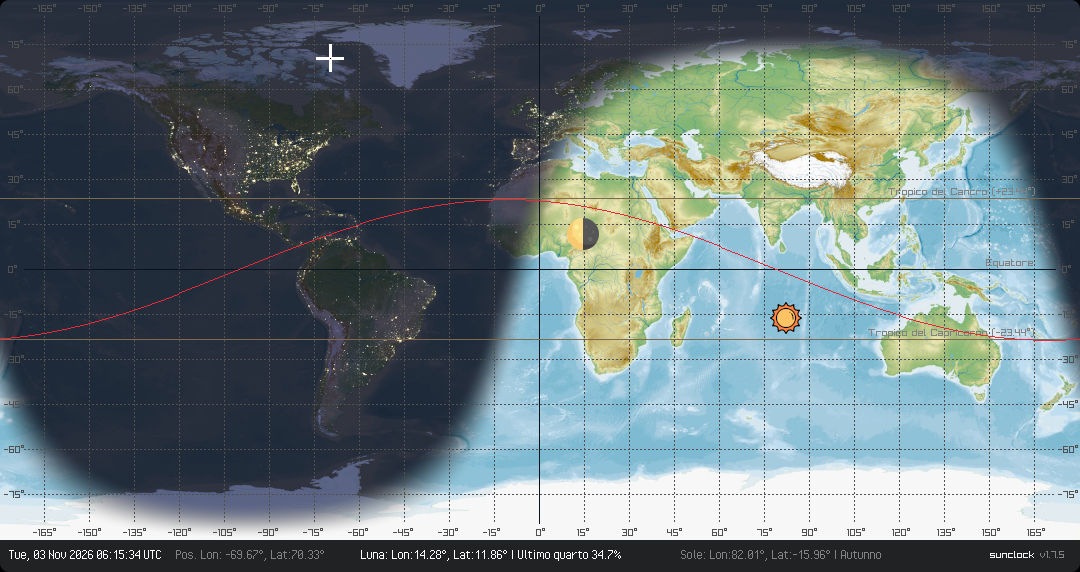
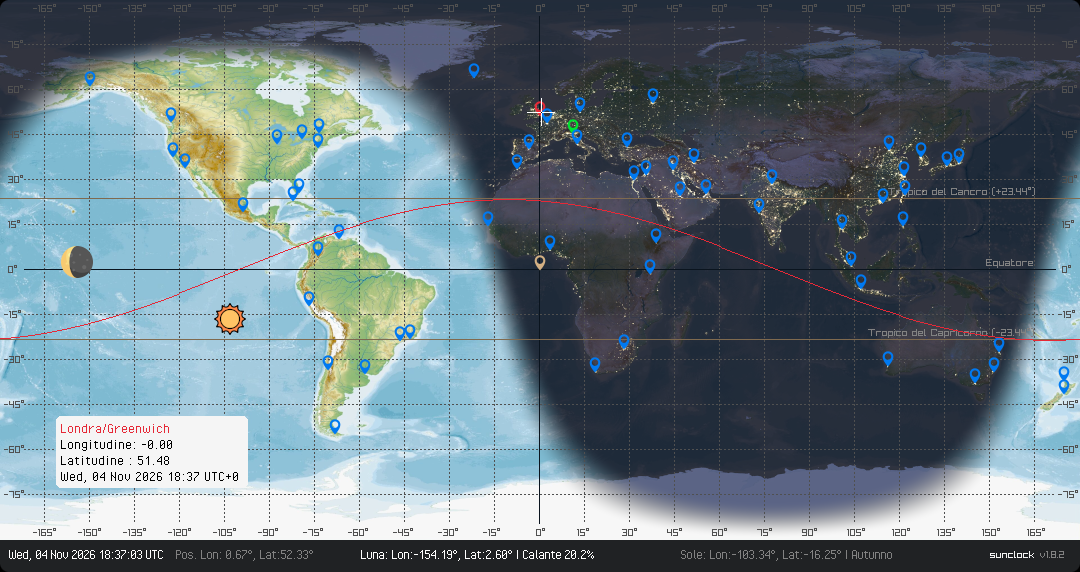
sunclock v1.8.x :  places infopanel

diff --git a/sunclock/sunclock.c b/sunclock/sunclock.c
@@ -10,7 +10,7 @@
 #define TOOL_NAME               "Sunlight World Map"
 #define TOOL_SHORT_NAME         "sunclock"
 #define TOOL_COMMENT            "Simple but modern sun day/night world map"
-#define TOOL_VERSION            "1.7.8"
+#define TOOL_VERSION            "1.8.2"
 
 #include <stdio.h>
 #include <raylib.h>
@@ -64,6 +64,7 @@ Rectangle worldMap = {
     };
 
 Rectangle infoBar = {0,540,1080,32};
+Rectangle cityPanel = {56,416,192,72};
 GeoCoords currentClick = { 0.0f, 0.0f };
 char tempBuffer[64] = { 0 };
 
@@ -84,87 +85,91 @@ typedef struct {
     const char* phaseName;  // Nome testuale della fase
 } MoonData;
 
-// list of interesting places
+// list of interesting places and big cities in the world
 // Definizione della struttura per una città
 typedef struct {
     const char *name;
     float lat;
     float lon;
     Color color;
+    int utcOffset;
 } Cities;
 
 const Cities bigCities[] = {
-    //{"Verona",          45.4383,   10.9916, ORANGE},
-    {"Roma",            41.9028,   12.4964, GREEN},
-    {"Milano",            45.4654    ,9.1859, GREEN},
-    {"Londra/Greenwich",51.4800,   -0.0000, RED},
-    {"New York",        40.7128,  -74.0060, GREEN},
-    {"Tokyo",           35.6762,  139.6503, GREEN},
-    {"Sydney",         -33.8688,  151.2093, GREEN},
-    {"Il Cairo",        30.0444,   31.2357, GREEN},
-    {"San Paolo",      -23.5505,  -46.6333, GREEN},
-    {"Città del Capo",-33.9249,   18.4241, GREEN},
-    {"Nuova Delhi",     28.6139,   77.2090, GREEN},
-    {"Reykjavik",       64.1466,  -21.9426, GREEN},
-    {"Parigi",          48.8566,    2.3522, GREEN},
-    {"Berlino",         52.5200,   13.4050, GREEN},
-    {"Madrid",          40.4168,   -3.7038, GREEN},
-    {"Mosca",           55.7558,   37.6173, GREEN},
-    {"Pechino",         39.9042,  116.4074, GREEN},
-    {"Mumbai",          19.0760,   72.8777, GREEN},
-    {"Buenos Aires",   -34.6037,  -58.3816, GREEN},
-    {"Lagos",            6.5244,    3.3792, GREEN},
-    {"Toronto",         43.6532,  -79.3832, GREEN},
-    {"Città del Messico", 19.4326, -99.1332, GREEN},
-    {"Istanbul",        41.0082,   28.9784, GREEN},
-    {"Seoul",           37.5665,  126.9780, GREEN},
-    {"Rio de Janeiro", -22.9068,  -43.1729, GREEN},
-    {"Singapore",        1.3521,  103.8198, GREEN},
-    {"Bangkok",         13.7563,  100.5018, GREEN},
-    {"Dubai",           25.2048,   55.2708, GREEN},
-    {"Los Angeles",     34.0522, -118.2437, GREEN},
-    {"Chicago",         41.8781,  -87.6298, GREEN},
-    {"Lima",           -12.0464,  -77.0428, BEIGE},
+    {"Verona",          45.4383,   10.9916, GREEN,  1},
+    {"Roma",            41.9028,   12.4964, BLUE,   1},
+     // "Milano",          45.4654,    9.1859, BLUE,   1},
+    {"Londra/Greenwich",51.4800,   -0.0000, RED,     0},
+    {"New York",        40.7128,  -74.0060, BLUE,  -5},
+    {"Tokyo",           35.6762,  139.6503, BLUE,   9},
+    {"Sydney",         -33.8688,  151.2093, BLUE,  11},
+    {"Il Cairo",        30.0444,   31.2357, BLUE,   2},
+    {"San Paolo",      -23.5505,  -46.6333, BLUE,  -3},
+    {"Città del Capo", -33.9249,   18.4241, BLUE,   2},
+    {"Nuova Delhi",     28.6139,   77.2090, BLUE,   5.5},
+    {"Reykjavik",       64.1466,  -21.9426, BLUE,   0},
+    {"Parigi",          48.8566,    2.3522, BLUE,   1},
+    {"Berlino",         52.5200,   13.4050, BLUE,   1},
+    {"Madrid",          40.4168,   -3.7038, BLUE,   1},
+    {"Mosca",           55.7558,   37.6173, BLUE,   3},
+    {"Pechino",         39.9042,  116.4074, BLUE,   8},
+    {"Mumbai",          19.0760,   72.8777, BLUE,   5.5},
+    {"Buenos Aires",   -34.6037,  -58.3816, BLUE,  -3},
+    {"Lagos",            6.5244,    3.3792, BLUE,   1},
+    {"Toronto",         43.6532,  -79.3832, BLUE,  -5},
+    {"Città del Messico", 19.4326, -99.1332, BLUE,  -6},
+    {"Istanbul",        41.0082,   28.9784, BLUE,   3},
+    {"Seoul",           37.5665,  126.9780, BLUE,   9},
+    {"Rio de Janeiro", -22.9068,  -43.1729, BLUE,  -3},
+    {"Singapore",        1.3521,  103.8198, BLUE,   8},
+    {"Bangkok",         13.7563,  100.5018, BLUE,   7},
+    {"Dubai",           25.2048,   55.2708, BLUE,   4},
+    {"Los Angeles",     34.0522, -118.2437, BLUE,  -8},
+    {"Chicago",         41.8781,  -87.6298, BLUE,  -6},
 
     // Nord America
-    {"San Francisco",   37.7749, -122.4194, GREEN},
-    {"Miami",           25.7617,  -80.1918, GREEN},
-    {"Vancouver",       49.2827, -123.1207, GREEN},
-    {"Montreal",        45.5017,  -73.5673, GREEN},
-    {"Havana",          23.1136,  -82.3666, GREEN},
+    {"Anchorage",       61.2173, -149.8631, BLUE,  -9},
+    {"San Francisco",   37.7749, -122.4194, BLUE,  -8},
+    {"Miami",           25.7617,  -80.1918, BLUE,  -5},
+    {"Vancouver",       49.2827, -123.1207, BLUE,  -8},
+    {"Montreal",        45.5017,  -73.5673, BLUE,  -5},
+    {"Havana",          23.1136,  -82.3666, BLUE,  -5},
     
     // Sud America
-    {"Santiago",       -33.4489,  -70.6693, GREEN},
-    {"Bogotà",           4.7110,  -74.0721, GREEN},
-    {"Lima",           -12.0464,  -77.0428, GREEN},
-    {"Caracas",         10.4806,  -66.9036, GREEN},
+    {"Santiago del Cile",-33.4489,  -70.6693, BLUE,  -3},
+    {"Bogotà",           4.7110,  -74.0721, BLUE,  -5},
+    {"Lima",           -12.0464,  -77.0428, BLUE,  -5},
+    {"Caracas",         10.4806,  -66.9036, BLUE,  -4},
     
     // Africa
-    {"Nairobi",         -1.2921,   36.8219, GREEN},
-    {"Johannesburg",   -26.2041,   28.0473, GREEN},
-    {"Casablanca",      33.5731,   -7.5898, GREEN},
-    {"Addis Abeba",      9.0192,   38.7468, GREEN},
-    {"Dakar",           14.7167,  -17.4677, GREEN},
+    {"Nairobi",         -1.2921,   36.8219, BLUE,   3},
+    {"Johannesburg",   -26.2041,   28.0473, BLUE,   2},
+    {"Casablanca",      33.5731,   -7.5898, BLUE,   1},
+    {"Addis Abeba",      9.0192,   38.7468, BLUE,   3},
+    {"Dakar",           14.7167,  -17.4677, BLUE,   0},
     
     // Asia & Medio Oriente
-    {"Shanghai",        31.2304,  121.4737, GREEN},
-    {"Hong Kong",       22.3193,  114.1694, GREEN},
-    {"Giacarta",        -6.2088,  106.8456, GREEN},
-    {"Manila",          14.5995,  120.9842, GREEN},
-    {"Osaka",           34.6937,  135.5023, GREEN},
-    {"Taipei",          25.0330,  121.5654, GREEN},
-    {"Teheran",         35.6892,   51.3890, GREEN},
-    {"Gerusalemme",     31.7683,   35.2137, GREEN},
-    {"Riad",            24.7136,   46.6753, GREEN},
-    {"Baghdad",         33.3152,   44.3661, GREEN},
+    {"Shanghai",        31.2304,  121.4737, BLUE,   8},
+    {"Hong Kong",       22.3193,  114.1694, BLUE,   8},
+    {"Giacarta",        -6.2088,  106.8456, BLUE,   7},
+    {"Manila",          14.5995,  120.9842, BLUE,   8},
+    {"Osaka",           34.6937,  135.5023, BLUE,   9},
+    {"Taipei",          25.0330,  121.5654, BLUE,   8},
+    {"Teheran",         35.6892,   51.3890, BLUE,   3.5},
+    {"Gerusalemme",     31.7683,   35.2137, BLUE,   2},
+    {"Riad",            24.7136,   46.6753, BLUE,   3},
+    {"Baghdad",         33.3152,   44.3661, BLUE,   3},
     
     // Oceania
-    {"Melbourne",      -37.8136,  144.9631, GREEN},
-    {"Auckland",       -36.8485,  174.7633, GREEN},
-    {"Brisbane",       -27.4705,  153.0260, GREEN},
-    {"Perth",          -31.9505,  115.8605, GREEN},
-    {"Wellington",     -41.2865,  174.7762, GREEN}
+    {"Melbourne",      -37.8136,  144.9631, BLUE,  11},
+    {"Auckland",       -36.8485,  174.7633, BLUE,  13},
+    {"Brisbane",       -27.4705,  153.0260, BLUE,  10},
+    {"Perth",          -31.9505,  115.8605, BLUE,   8},
+    {"Wellington",     -41.2865,  174.7762, BLUE,  13},
+    {"Null Island",      0.0000,    0.0000, BEIGE,  0},
+    {"Ushuaia",        -54.8072,  -68.3080, BLUE,  -3}
 };
+
 
 
 // Calcolo automatico del numero di città nell'array (C99)
@@ -175,6 +180,36 @@ bool showCities = false; // non mostrare i punti delle citta : premi C per visua
 // -----------------------------------------------------------------------------
 // Functions
 // -----------------------------------------------------------------------------
+
+struct tm getCityTime(const Cities *cities, time_t customTime) {
+    // Gestione di sicurezza nel caso in cui il puntatore sia NULL
+    if (cities == NULL) {
+        struct tm error_tm = {0};
+        return error_tm;
+    }
+
+    struct tm *utc_tm = gmtime(&customTime);
+    if (utc_tm == NULL) {
+        struct tm error_tm = {0};
+        return error_tm;
+    }
+
+    struct tm city_time = *utc_tm;
+
+    // Calcola ore e minuti di offset 
+    int offset_hours = (int)cities->utcOffset;
+    int offset_minutes = (int)((cities->utcOffset - offset_hours) * 60);
+
+    // Applica l'offset ai campi temporali della struct tm
+    city_time.tm_hour += offset_hours;
+    city_time.tm_min  += offset_minutes;
+
+    // corregge ore > 23 o minuti > 59 e aggiorna la data
+    mktime(&city_time);
+
+    return city_time;
+}
+
 
 
 // Ritorna true se è giorno, false se è notte
@@ -340,7 +375,6 @@ MoonData CalculateMoonData(time_t utc_time) {
     result.longitude = fmod(result.longitude + 180.0, 360.0);
     if (result.longitude < 0) result.longitude += 360.0;
     result.longitude -= 180.0; // Riporta nel range [-180, 180]
-
 
     result.phaseFrameIndex = frameIndex;
     result.phaseName = phaseNames[frameIndex];
@@ -734,16 +768,21 @@ while (!WindowShouldClose()) {
         // Draw Cities point
         if (showCities) {
             for (int i = 0; i < numCities; i++) {
-                    Vector2 cityOrigin = { (cityIcon.width - 8) , (cityIcon.height -2 )  };
+                    Vector2 cityOrigin = { (cityIcon.width - 8) , (cityIcon.height -1 )  };
                     Vector2 cityPos = MapGeoToPixel(RAD(bigCities[i].lon), RAD(bigCities[i].lat), worldMap.width, worldMap.height);
-                    //DrawTexture(city,cityPos.x,cityPos.y, bigCities[i].color);
-                    DrawTexturePro(cityIcon, (Rectangle){ 0, 0, cityIcon.width, cityIcon.height }, (Rectangle){ cityPos.x, cityPos.y, 16, 16 },  cityOrigin, 0.0f, BLUE );
-                    Vector2 citySize = MeasureTextEx(mainFont, bigCities[i].name, (float)mainFont.baseSize, 0);
-                    if (CheckCollisionPointCircle(GetMousePosition(), cityPos, 8.0f)) {
-                        DrawRectangle(cityPos.x, cityPos.y + 1,citySize.x + 1,citySize.y + 1, WHITE);
-                        DrawTextEx(mainFont,bigCities[i].name,cityPos,(float)mainFont.baseSize,0,BLACK);
+                    DrawTexturePro(cityIcon, (Rectangle){ 0, 0, cityIcon.width, cityIcon.height }, (Rectangle){ cityPos.x, cityPos.y, 16, 16 },  cityOrigin, 0.0f, bigCities[i].color );
+             
+                    if (CheckCollisionPointCircle(GetMousePosition(), cityPos, 4.0f)) {
+                        DrawRectangleRounded(cityPanel,0.16f,24, RAYWHITE);
+                        DrawTextEx(mainFont,bigCities[i].name,(Vector2){cityPanel.x + 4, cityPanel.y +4 },(float)mainFont.baseSize,0,bigCities[i].color);
+                        DrawTextEx(mainFont,TextFormat("Longitudine: %.2f", bigCities[i].lon),(Vector2){cityPanel.x + 4, cityPanel.y + 20 },(float)mainFont.baseSize,0,BLACK);
+                        DrawTextEx(mainFont,TextFormat("Latitudine : %.2f", bigCities[i].lat),(Vector2){cityPanel.x + 4, cityPanel.y + 36 },(float)mainFont.baseSize,0,BLACK);
+
+                        struct tm c_time = getCityTime(&bigCities[i],simulatedTime);
+                        strftime(tempBuffer, sizeof(tempBuffer), "%a, %d %b %Y %H:%M", &c_time);
+                        DrawTextEx(mainFont, TextFormat("%s UTC%+i", tempBuffer, bigCities[i].utcOffset),(Vector2){cityPanel.x +4 , cityPanel.y+52}, (float)mainFont.baseSize,0,BLACK);
                     }
-            }
+               }
         }
 
 		//  traiettoria annuale del sole
@@ -814,6 +853,7 @@ while (!WindowShouldClose()) {
 		DrawText(TextFormat("v%s", TOOL_VERSION), 1040,infoBar.y +10, 10, GRAY); 
 		//DrawText("[Q] exit program.",screenWidth-94, screenHeight-16,10,GRAY);
     EndScissorMode();
+ 
 
 	EndDrawing();
 }
